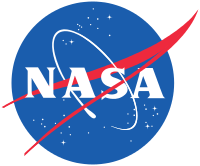
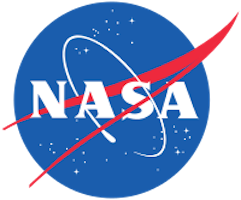
image size adjustments

diff --git a/WxCD/index.html b/WxCD/index.html
@@ -102,13 +102,13 @@
         <br />
         <div class="row">
             <div class="col-md-2">
-                <img class="img-responsive" src="./images/uw_vert.png" height="200px">
+                <img class="img-responsive" src="./images/uw_vert.png">
             </div>
             <div class="col-md-2">
-                <img class="img-responsive" src="./images/usda_usfs_color.png" height="200px">
+                <img class="img-responsive" src="./images/usda_usfs_color.png">
             </div>
             <div class="col-md-2">
-                <img class="img-responsive" src="./images/nasa_color.png" height="200px">
+                <img class="img-responsive" src="./images/nasa_color.png">
             </div>
         </div>
 
